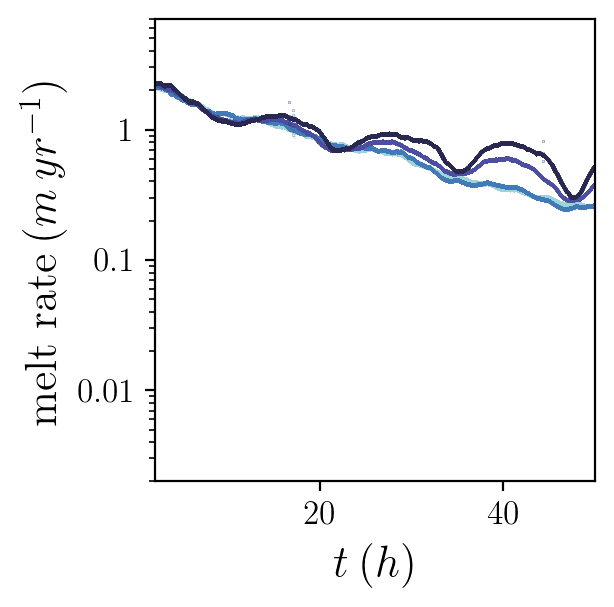
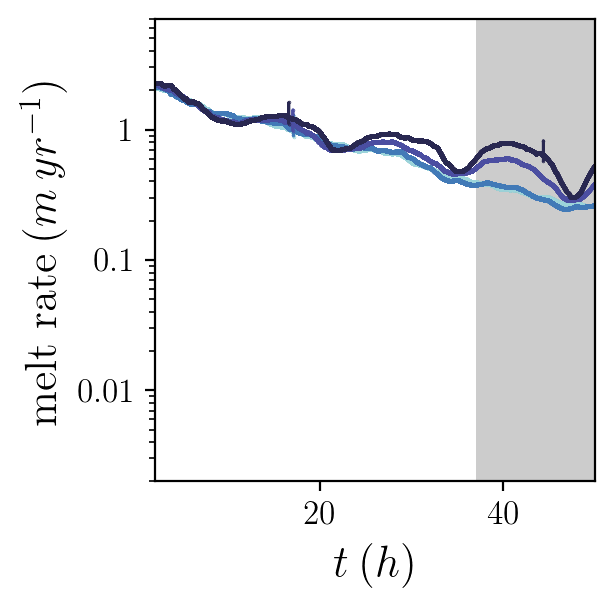
Add analysis window to timeseries fig

diff --git a/vis_scripts/plot_palm_mod.py b/vis_scripts/plot_palm_mod.py
@@ -435,8 +435,9 @@ def plot_TS(filedir,runname,teval = [-9999.], tunits = 'hr',
 #   printformat plot file extension (optional). Defaults to png.
 #------------------------------------------------------------------------------
 def plot_tseries(filedir, runname, plotvar, 
-                 tlim = [9999.,9999.],tav=0.,tunits='hr',
-                 runlabel=[''], legtitle = '',legvar = '', plot_legend=True,
+                 tlim = [9999.,9999.],tav=0.,tunits='hr',tshade = [9999,9999],
+                 ylim = [-9999,-9999], runlabel=[''], 
+                 leglocation = 'best', legtitle = '',legvar = '', plot_legend=True,
                  col=col, linestyle = ['-'], marker = mk, figsize=(6.4,4.8),
                  outputdir = [], overwrite=True, printformat = 'png'):
     
@@ -497,7 +498,6 @@ def plot_tseries(filedir, runname, plotvar,
                                   tunits=tunits,tval=tlim,
                                   grid=pv.vartype[pv.varlist.index(j)],
                                   data_dir=k)
-               print(np.shape(var),np.mean(var))
                if len(varname) > 1:
                    y_axis_label = r'$'+pv.vars_axis_label[pv.varsname.index(i)]+r'$'
                    linestyle[idx] = pv.vars_ls[pv.varsname.index(i)][jidx]
@@ -514,11 +514,17 @@ def plot_tseries(filedir, runname, plotvar,
                        linewidth=lw,color = col[idx])
 
         if plot_legend:
-            #ax.legend(loc=legloc, bbox_to_anchor = bboxanchor, title=legtitle)
-            ax.legend(bbox_to_anchor = bboxanchor, title=legtitle)
+            ax.legend(loc=leglocation, bbox_to_anchor = (1,1), title=legtitle)
         ax.set_xlabel(x_axis_label,fontsize = fs)
-        if tlim[0] != -9999.:
+        if ylim[0] != -9999.:
+           ax.set_ylim(ylim)
+        if tlim[0] != 9999.:
            ax.set_xlim(tlim)
+        if tshade[0] != 9999.:
+           #ylim = ax.get_ylim()
+           ax.fill([tshade[0],tshade[0],tshade[1],tshade[1]],
+                   [ylim[0],ylim[1],ylim[1],ylim[0]],
+                   'k',alpha = 0.2)#,lineStyle='None')
         ax.set_ylabel(y_axis_label,fontsize = fs)
         plt.yscale(pv.varscale[pv.varlist.index(varname[0])])
         

diff --git a/vis_scripts/timeseries_fig.py b/vis_scripts/timeseries_fig.py
@@ -9,11 +9,11 @@ import sys
 import plot_palm_mod as palm
 import numpy as np
 from plot_param_palm import figsize3
-#from cmp_thermal_driving_slope1 import *
-from cmp_slope_hidT import *
+from cmp_thermal_driving_slope1 import *
+#from cmp_slope_hidT import *
 
 sys.path.append('/Users/cbegeman/Software_files/my_python_code/')
 
-palm.plot_tseries(diri, run, ['E*'], runlabel = runlabel, legtitle = legtitle, col=colorVal, figsize = figsize3,tlim = [tmin,tmax], plot_legend=False, ylim=[4e-7,3e-5])
-palm.plot_tseries(diri, run, ['melt'], runlabel = runlabel, legtitle = legtitle, col=colorVal, figsize = figsize3,tlim = [tmin,tmax], plot_legend=False, linestyle = ['None' for i in diri], marker = '.', ylim=[2e-3,7])
-palm.plot_tseries(diri, run, ['u*'], runlabel = runlabel, legtitle = legtitle, col=colorVal, figsize = figsize3,tlim = [tmin,tmax], ylim=[0,6e-3])
+#palm.plot_tseries(diri, run, ['E*'], runlabel = runlabel, legtitle = legtitle, col=colorVal, figsize = figsize3,tlim = [tmin,tmax], plot_legend=False, ylim=[4e-7,3e-5], tshade = [50-13,50])
+#palm.plot_tseries(diri, run, ['melt'], runlabel = runlabel, legtitle = legtitle, col=colorVal, figsize = figsize3,tlim = [tmin,tmax], plot_legend=False, linestyle = ['None' for i in diri], marker = '.', ylim=[2e-3,7], tshade = [50-13,50])
+palm.plot_tseries(diri, run, ['u*'], runlabel = runlabel, legtitle = legtitle, col=colorVal, figsize = figsize3,tlim = [tmin,tmax], ylim=[0,8e-3], tshade = [50-13,50], leglocation = 'upper right')
